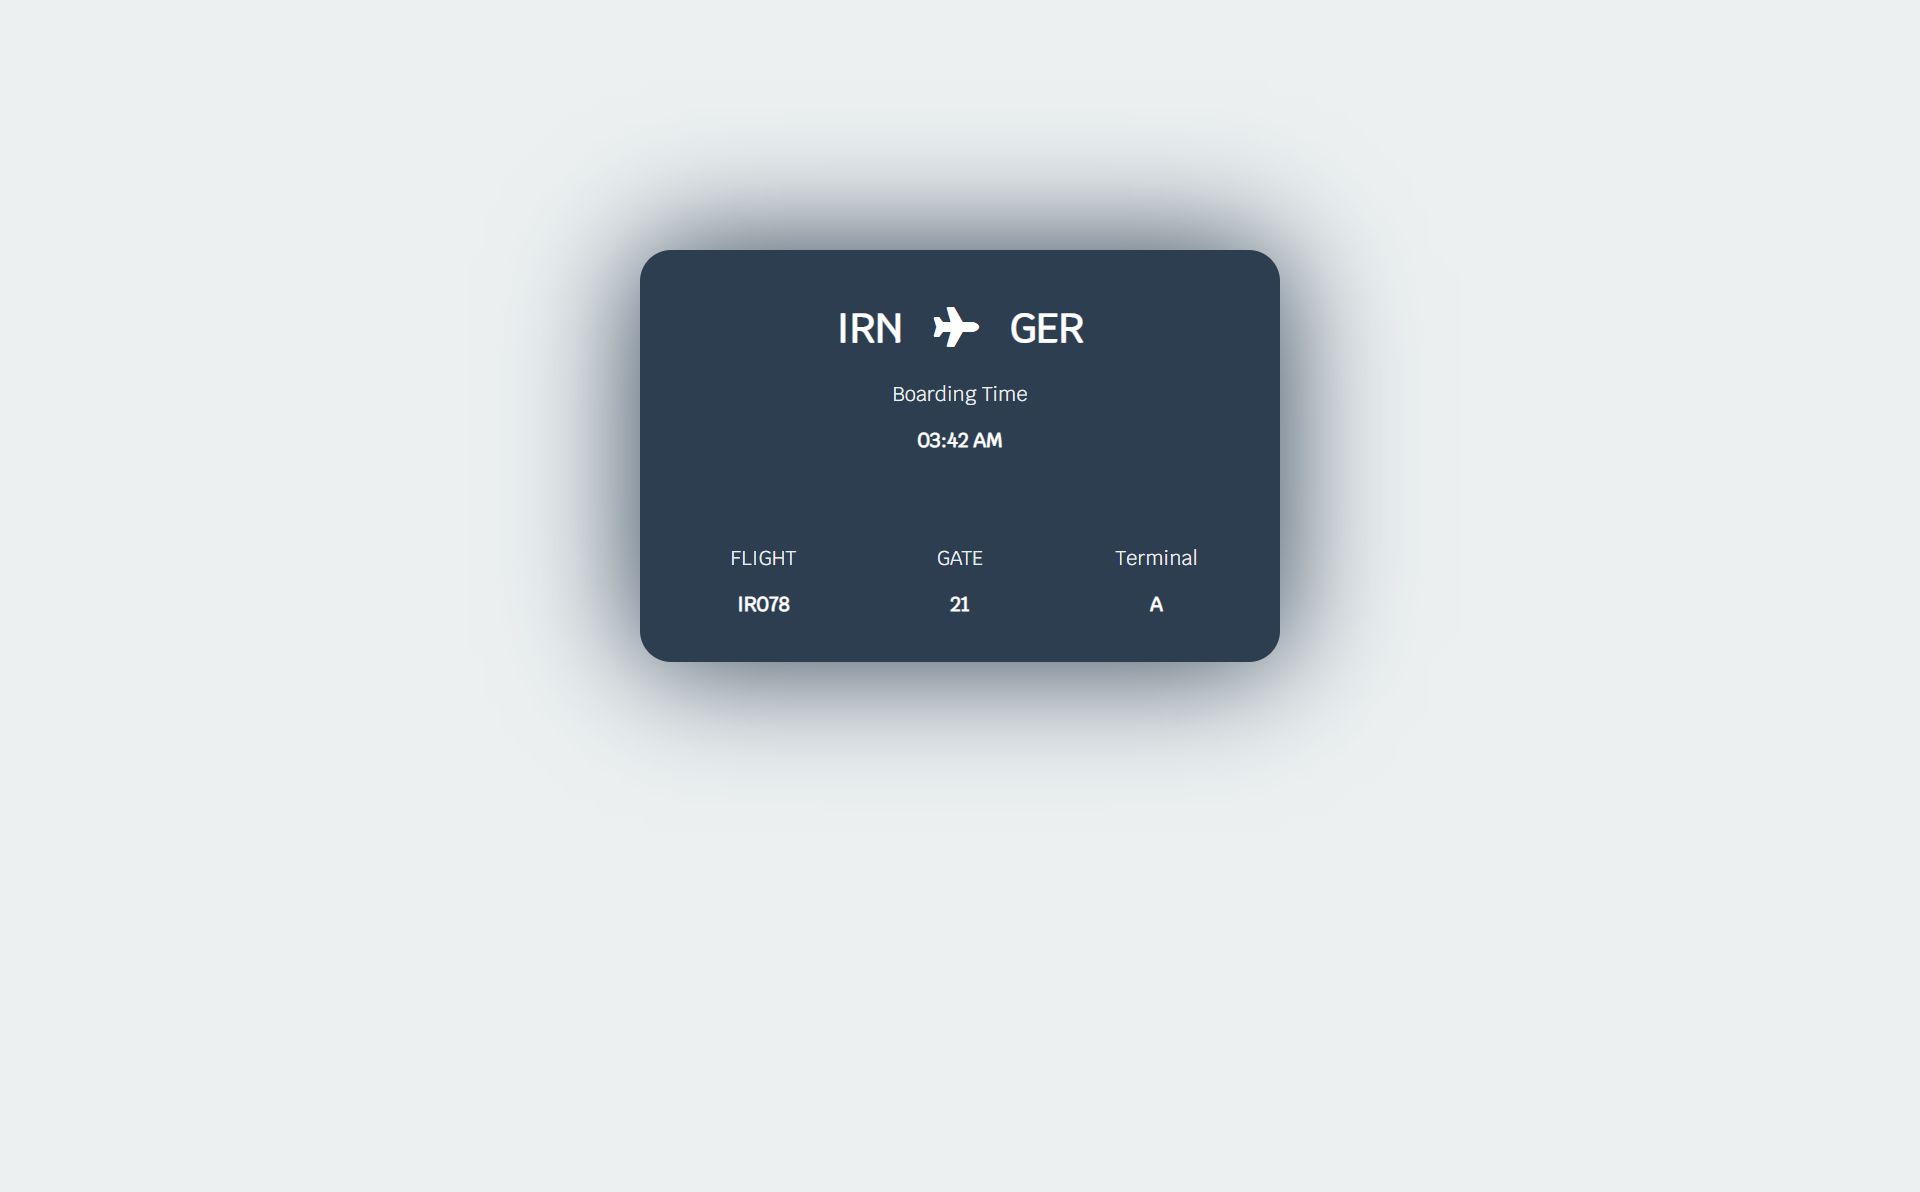
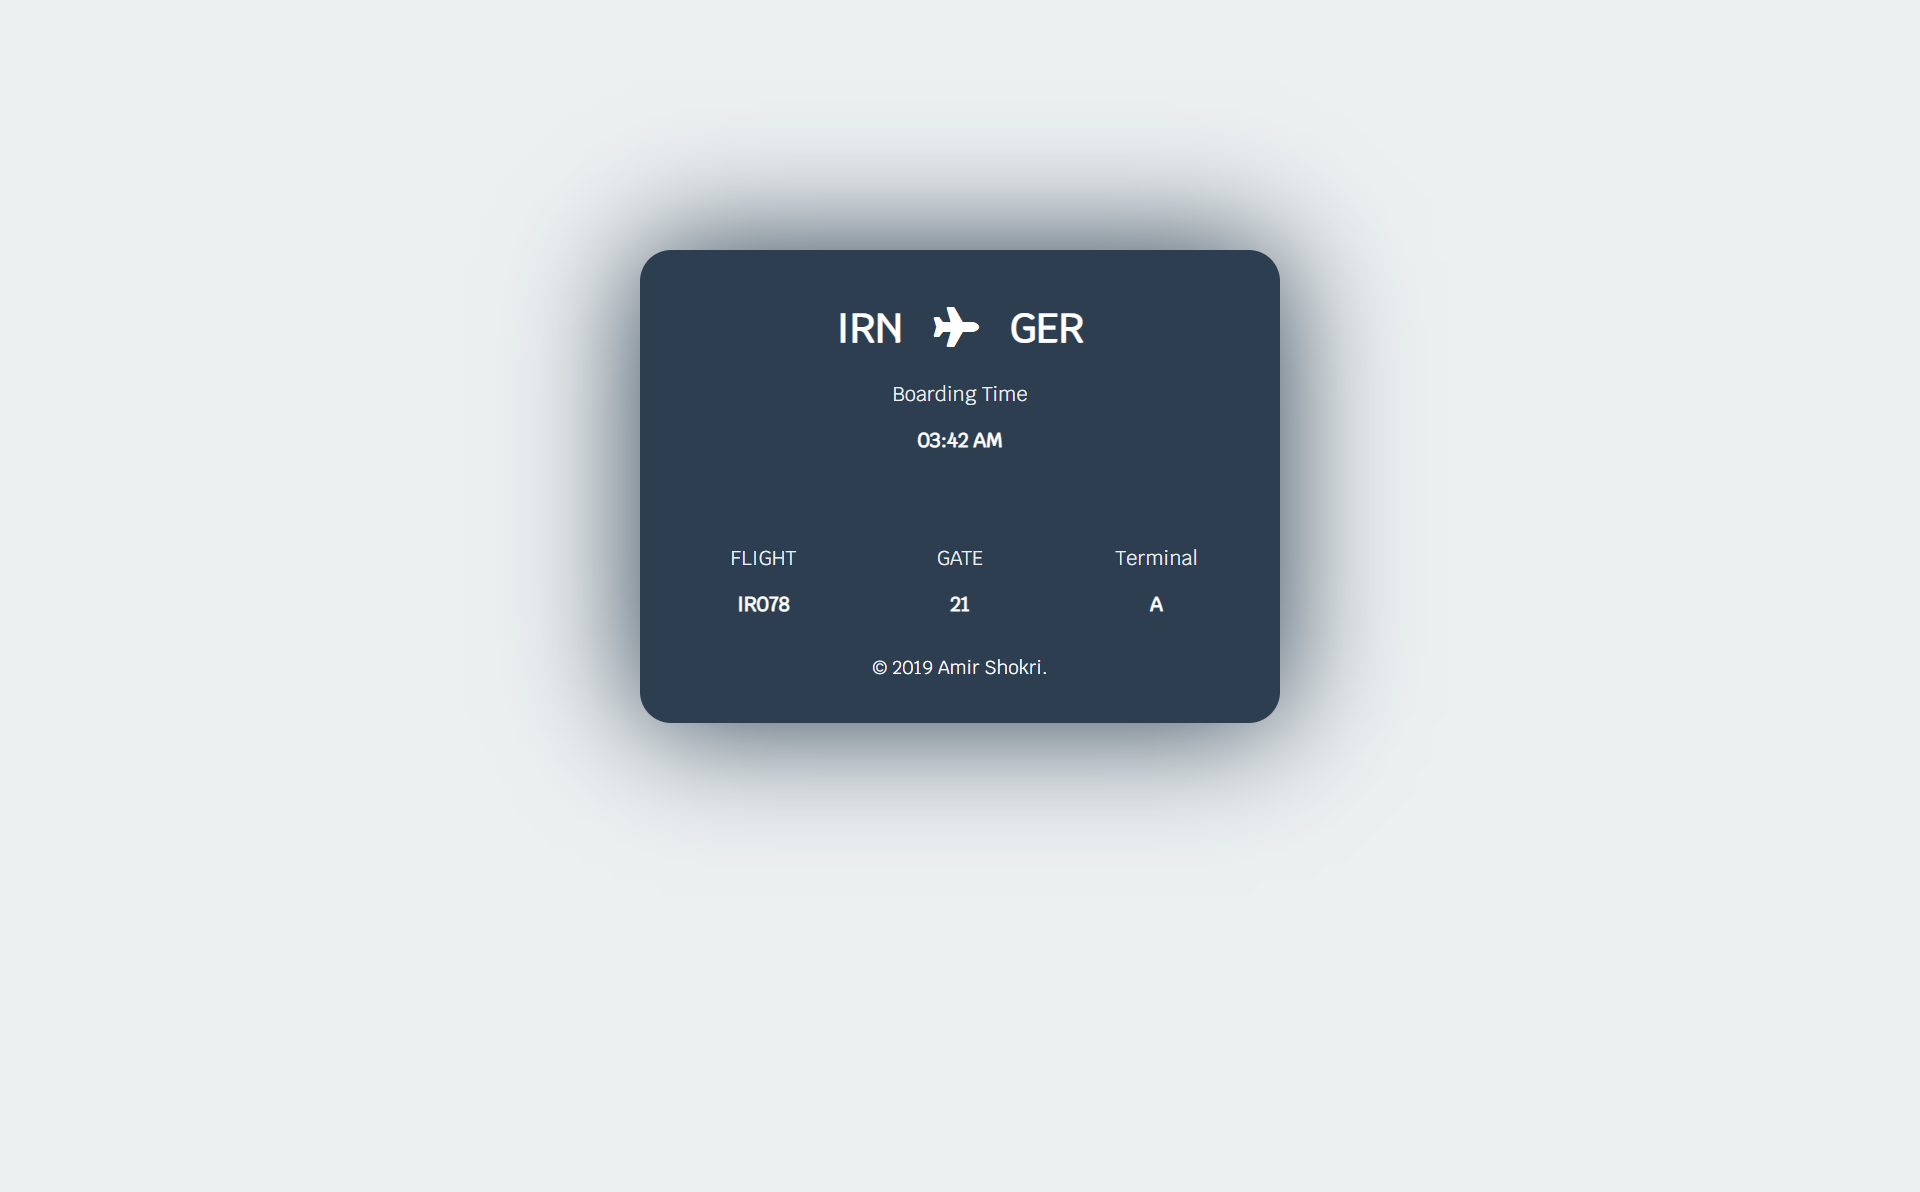
commit #56
add copyright in 022, 024, 025

Changed region(s): [[0.3125, 0.5277, 0.6875, 0.6829]]

diff --git a/022_search.html b/022_search.html
@@ -24,6 +24,7 @@
 						<br /><br />
 						<input type="submit" name="submit" value="Search" class="search-submit belize-hole-bg text-light b-none c-pointer" />
 					</form>
+					<p class="display-1-2">&copy; 2019 Amir Shokri.</p>
 				</div>
 			</div>
 		</div>

diff --git a/024_boarding_pass.html b/024_boarding_pass.html
@@ -45,6 +45,7 @@
 					<p class="text-light text-bold text-center">A</p>
 				</div>
 				<div class="clearfix"></div>
+				<p class="display-1-2 text-center text-light">&copy; 2019 Amir Shokri.</p>
 			</div>
 		</div>
 

diff --git a/025_tv_app.html b/025_tv_app.html
@@ -66,6 +66,9 @@
 				</div>
 				<div class="clearfix"></div>
 			</div>
+
+			<br />
+			<p class="display-1-2 text-center">&copy; 2019 Amir Shokri.</p>
 		</div>
 
 	</div>
